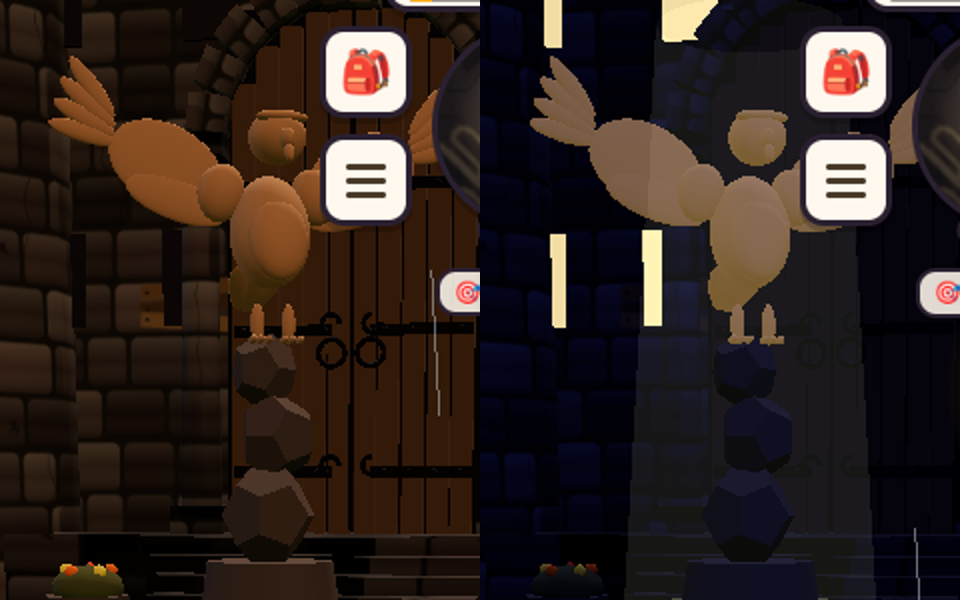
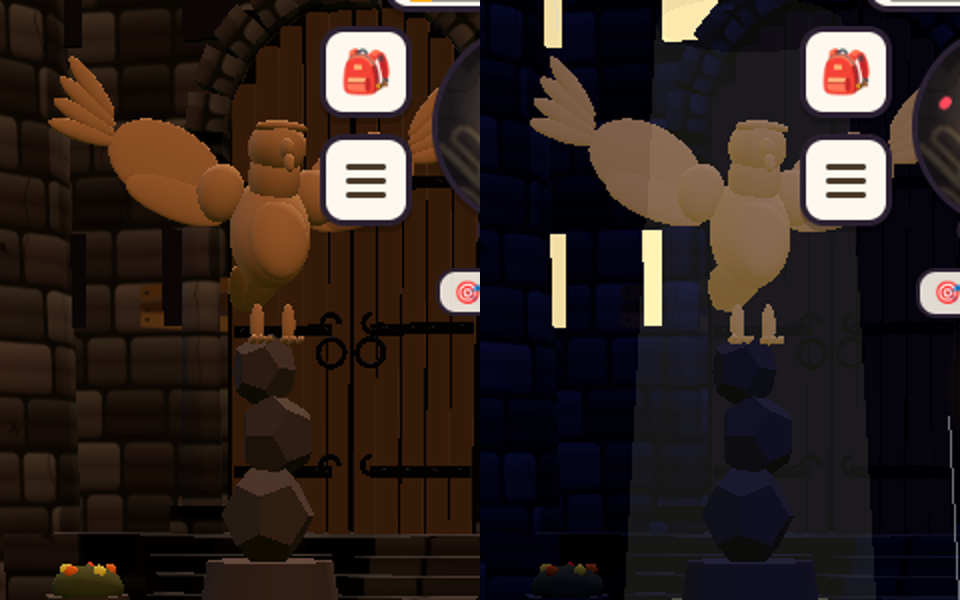
newgame: hawk statue gets a neck (head no longer floats)
Claude-Session: https://claude.ai/code/session_01GPWeNez232vT9ersFNk7wt

Changed region(s): [[0.25, 0.18, 0.3438, 0.33], [0.75, 0.18, 0.8438, 0.33], [0.9688, 0.15, 1.0, 0.18]]

diff --git a/newgame/src/main.js b/newgame/src/main.js
@@ -4792,8 +4792,8 @@ function capTick(now) { if (now < capT) return; capT = now + 400; const q = me()
 /* v5.12 🦌 a restored capital's square: a statue of the kingdom's animal on a mossy plinth + planters + lamps round the plaza · uplit at night (designer: one kingdom at a time) */
 const STATUE_A = { camel(g) { const P = (p, z, r = [0, 0, 0]) => part(g, '#a8845a', '#d8b888', p, z, r, { A: .03 }); P([0, 1.0, 0], [.28, .26, .52]); P([0, 1.34, -.06], [.2, .2, .24]); for (const [x, z] of [[-.17, .32], [.17, .32], [-.17, -.34], [.17, -.34]]) P([x, .48, z], [.07, .48, .07]);
     P([0, 1.32, .58], [.09, .3, .09], [.55, 0, 0]); P([0, 1.62, .78], [.1, .1, .2]); for (const sx of [-1, 1]) P([sx * .08, 1.75, .7], [.025, .05, .02]); P([0, .95, -.55], [.03, .18, .03], [-.3, 0, 0]) },
-  hawkS(g) { const P = (p, z, r = [0, 0, 0]) => part(g, '#8a5a3a', '#c08a62', p, z, r, { A: .02 }); P([0, .55, 0], [.2, .28, .22], [-.35, 0, 0]); P([0, .5, .16], [.15, .2, .1], [-.2, 0, 0]); P([0, .98, .14], [.14, .13, .15]); P([0, 1.06, .22], [.13, .03, .06]);   /* 🦅 body leaning forward · head · a stern brow */
-    part(g, '#8a5a3a', '#c08a62', [0, .94, .32], [.035, .05, .06], [.2, 0, 0], { A: 0 }); part(g, '#8a5a3a', '#c08a62', [0, .87, .36], [.025, .05, .03], [-.6, 0, 0], { A: 0 });   /* the hooked beak */
+  hawkS(g) { const P = (p, z, r = [0, 0, 0]) => part(g, '#8a5a3a', '#c08a62', p, z, r, { A: .02 }); P([0, .55, 0], [.2, .28, .22], [-.35, 0, 0]); P([0, .5, .16], [.15, .2, .1], [-.2, 0, 0]); P([0, .8, .09], [.13, .15, .13], [.3, 0, 0]); P([0, .93, .14], [.14, .13, .15]); P([0, 1.01, .22], [.13, .03, .06]);   /* 🦅 body leaning forward · head · a stern brow */
+    part(g, '#8a5a3a', '#c08a62', [0, .89, .32], [.035, .05, .06], [.2, 0, 0], { A: 0 }); part(g, '#8a5a3a', '#c08a62', [0, .82, .36], [.025, .05, .03], [-.6, 0, 0], { A: 0 });   /* the hooked beak */
     for (const sx of [-1, 1]) { P([sx * .24, .74, -.04], [.12, .14, .1], [0, 0, sx * .3]); P([sx * .5, .86, -.08], [.3, .2, .035], [0, 0, sx * .42]); P([sx * .46, .7, -.06], [.26, .1, .03], [0, 0, sx * .3]);   /* broad wings raised from the shoulders (a flat panel you see from the front) */
       for (let f = 0; f < 4; f++) { const ang = .25 + f * .22; P([sx * (.78 + Math.cos(ang) * .14), 1.0 + f * .07, -.08], [.17, .045, .025], [0, 0, sx * ang]) }   /* fingered tip feathers fanning up */
       P([sx * .08, .1, .06], [.035, .1, .035]); for (let t = -1; t <= 1; t++) P([sx * .08 + t * .04, .02, .13], [.018, .02, .06]) }   /* legs · talons gripping the rock */
